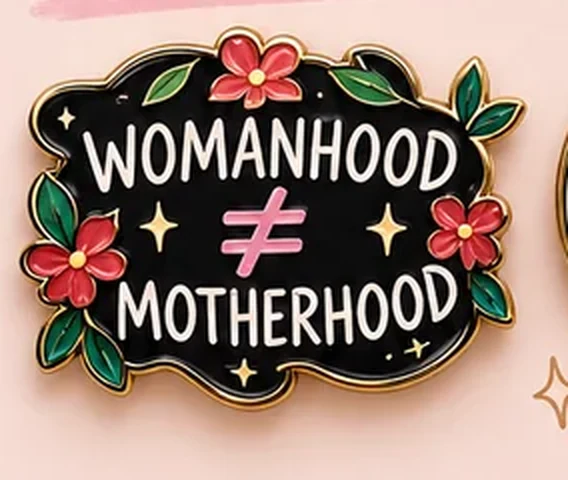
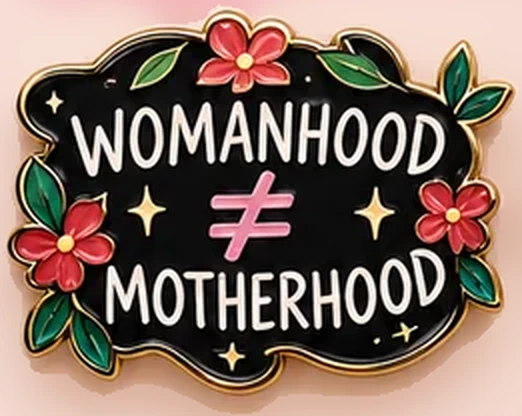
Fix Childfree filter scoping and re-cut the nine pin tiles from the approved sheet
- Scope the mood filter handler to the button group: '[data-mood]' also
  matched the nine .pin-card articles, so a click anywhere in a card body
  silently filtered the grid, opening a pin from "All nine" left the grid
  filtered behind the dialog, and the cards received invalid aria-pressed.
- Re-cut pins/pin-01..09.webp from assets/childfree-original.webp (the only
  source of the artwork) at the same 2.0x zoom, but boxed to each pin's own
  outline: the old boxes reached into the band-label rows and into neighbouring
  pins (pin-02 carried the cut-off row label, pin-04 showed the Motherhood
  pin's leaves and a swash). Pin pixels are kept byte-for-byte; only the sheet
  background surrounding each pin is rebuilt from the sheet's own background,
  which also clears the band swashes and loose doodles left in a tile corner.
- Update the nine width/height attributes and the two captions that described
  the old framing.

diff --git a/work/childfree/index.html b/work/childfree/index.html
@@ -87,8 +87,9 @@
 .pin-noscript{font-size:12px;color:#6a5b60;margin-top:16px}
 
 /* Pin artwork. Each card carries its own crop of the approved sheet, saved as a
-   small derivative image under pins/, so no neighbouring pin or sheet label ever
-   intrudes. The crop is shown whole and contained, never stretched or re-drawn. */
+   small derivative image under pins/, cut to the pin's own outline so no
+   neighbouring pin and no band label can appear in the frame. The crop is shown
+   whole and contained, never stretched or re-drawn. */
 .pin-art{width:100%;max-width:320px;margin:6px auto 0;aspect-ratio:1;background:#f7e5e8;
   border:1px solid var(--line);padding:16px;display:grid;place-items:center}
 .pin-art img{width:auto;height:auto;max-width:100%;max-height:100%;object-fit:contain}
@@ -223,7 +224,7 @@
 <article class="pin-card" data-mood="whimsical">
 <div class="card-index"><span>Pin 01</span><span>Whimsical</span></div>
 <div class="pin-art">
-<img src="pins/pin-01.webp" width="532" height="428" alt="Detail from the approved sheet: a ribbon banner pin reading Childfree. By Choice., framed by white daisies and green leaves on a blush ground with a gold outline." loading="lazy" decoding="async">
+<img src="pins/pin-01.webp" width="542" height="436" alt="Detail from the approved sheet: a ribbon banner pin reading Childfree. By Choice., framed by white daisies and green leaves on a blush ground with a gold outline." loading="lazy" decoding="async">
 </div>
 <h3>Childfree, By Choice</h3>
 <p class="pin-statement">Childfree by choice.</p>
@@ -239,7 +240,7 @@
 <article class="pin-card" data-mood="whimsical">
 <div class="card-index"><span>Pin 02</span><span>Whimsical</span></div>
 <div class="pin-art">
-<img src="pins/pin-02.webp" width="408" height="488" alt="Detail from the approved sheet: a black enamel plaque pin with a large pink bow, reading No Heirs. Just Earrings., with a dangling pair of heart earrings on a chain." loading="lazy" decoding="async">
+<img src="pins/pin-02.webp" width="434" height="466" alt="Detail from the approved sheet: a black enamel plaque pin with a large pink bow, reading No Heirs. Just Earrings., with a dangling pair of heart earrings on a chain." loading="lazy" decoding="async">
 </div>
 <h3>No Heirs, Just Earrings</h3>
 <p class="pin-statement">No heirs. Just earrings.</p>
@@ -255,7 +256,7 @@
 <article class="pin-card" data-mood="whimsical">
 <div class="card-index"><span>Pin 03</span><span>Whimsical</span></div>
 <div class="pin-art">
-<img src="pins/pin-03.webp" width="472" height="492" alt="Detail from the approved sheet: a lilac cloud pin with a crescent moon, stars and pearl clouds, reading Just Me. Enough." loading="lazy" decoding="async">
+<img src="pins/pin-03.webp" width="466" height="452" alt="Detail from the approved sheet: a lilac cloud pin with a crescent moon, stars and pearl clouds, reading Just Me. Enough." loading="lazy" decoding="async">
 </div>
 <h3>Just Me, Enough</h3>
 <p class="pin-statement">Just me. Enough.</p>
@@ -271,7 +272,7 @@
 <article class="pin-card" data-mood="chilled">
 <div class="card-index"><span>Pin 04</span><span>Chilled</span></div>
 <div class="pin-art">
-<img src="pins/pin-04.webp" width="524" height="520" alt="Detail from the approved sheet: a pink twin-bell alarm clock pin with daisies, the clock face replaced by a mute symbol, reading My Biological Clock Is On Silent." loading="lazy" decoding="async">
+<img src="pins/pin-04.webp" width="494" height="484" alt="Detail from the approved sheet: a pink twin-bell alarm clock pin with daisies, the clock face replaced by a mute symbol, reading My Biological Clock Is On Silent." loading="lazy" decoding="async">
 </div>
 <h3>My Biological Clock Is On Silent</h3>
 <p class="pin-statement">My biological clock is on silent.</p>
@@ -287,7 +288,7 @@
 <article class="pin-card" data-mood="chilled">
 <div class="card-index"><span>Pin 05</span><span>Chilled</span></div>
 <div class="pin-art">
-<img src="pins/pin-05.webp" width="496" height="488" alt="Detail from the approved sheet: an ivory and blush ribbon banner pin reading Motherhood Is Optional., framed by green leaves and daisies." loading="lazy" decoding="async">
+<img src="pins/pin-05.webp" width="496" height="450" alt="Detail from the approved sheet: an ivory and blush ribbon banner pin reading Motherhood Is Optional., framed by green leaves and daisies." loading="lazy" decoding="async">
 </div>
 <h3>Motherhood Is Optional</h3>
 <p class="pin-statement">Motherhood is optional.</p>
@@ -303,7 +304,7 @@
 <article class="pin-card" data-mood="chilled">
 <div class="card-index"><span>Pin 06</span><span>Chilled</span></div>
 <div class="pin-art">
-<img src="pins/pin-06.webp" width="488" height="508" alt="Detail from the approved sheet: a round gold-outlined pin reading Complete As I Am, with a sunrise over green hills, cloud shapes and daisies." loading="lazy" decoding="async">
+<img src="pins/pin-06.webp" width="472" height="484" alt="Detail from the approved sheet: a round gold-outlined pin reading Complete As I Am, with a sunrise over green hills, cloud shapes and daisies." loading="lazy" decoding="async">
 </div>
 <h3>Complete As I Am</h3>
 <p class="pin-statement">Complete as I am.</p>
@@ -319,7 +320,7 @@
 <article class="pin-card" data-mood="bold">
 <div class="card-index"><span>Pin 07</span><span>Bold</span></div>
 <div class="pin-art">
-<img src="pins/pin-07.webp" width="568" height="480" alt="Detail from the approved sheet: a black shield-shaped pin reading Womanhood is not Motherhood, with a large inequality sign and red hibiscus flowers." loading="lazy" decoding="async">
+<img src="pins/pin-07.webp" width="522" height="416" alt="Detail from the approved sheet: a black shield-shaped pin reading Womanhood is not Motherhood, with a large inequality sign and red hibiscus flowers." loading="lazy" decoding="async">
 </div>
 <h3>Womanhood is not Motherhood</h3>
 <p class="pin-statement">Womanhood ≠ Motherhood.</p>
@@ -335,7 +336,7 @@
 <article class="pin-card" data-mood="bold">
 <div class="card-index"><span>Pin 08</span><span>Bold</span></div>
 <div class="pin-art">
-<img src="pins/pin-08.webp" width="476" height="496" alt="Detail from the approved sheet: an ivory round pin shaped as an artist palette with colour wells, hearts and a paintbrush, reading My Life. My Design." loading="lazy" decoding="async">
+<img src="pins/pin-08.webp" width="456" height="432" alt="Detail from the approved sheet: an ivory round pin shaped as an artist palette with colour wells, hearts and a paintbrush, reading My Life. My Design." loading="lazy" decoding="async">
 </div>
 <h3>My Life, My Design</h3>
 <p class="pin-statement">My life. My design.</p>
@@ -351,7 +352,7 @@
 <article class="pin-card" data-mood="bold">
 <div class="card-index"><span>Pin 09</span><span>Bold</span></div>
 <div class="pin-art">
-<img src="pins/pin-09.webp" width="440" height="440" alt="Detail from the approved sheet: a deep red heart pin crossed by an ivory ribbon reading Childfree, Not Childless., with daisies on a gold outline." loading="lazy" decoding="async">
+<img src="pins/pin-09.webp" width="494" height="440" alt="Detail from the approved sheet: a deep red heart pin crossed by an ivory ribbon reading Childfree, Not Childless., with daisies on a gold outline." loading="lazy" decoding="async">
 </div>
 <h3>Childfree, Not Childless</h3>
 <p class="pin-statement">Childfree, not childless.</p>
@@ -419,7 +420,7 @@
 </div>
 <dl class="pin-spec" id="pin-detail-spec"></dl>
 <p class="pin-note" id="pin-detail-note"></p>
-<p class="mini">Detail cut from the approved concept sheet. The artwork itself is unchanged.</p>
+<p class="mini">Detail cut from the approved concept sheet: the crop follows the pin's own outline, and the sheet's background texture around it has been cleaned away. The pin artwork itself is unchanged.</p>
 </div>
 </div>
 </dialog>
@@ -429,7 +430,10 @@
   var grid = document.getElementById('pin-grid');
   var cards = Array.prototype.slice.call(grid.querySelectorAll('.pin-card'));
   var count = document.getElementById('pin-count');
-  var buttons = Array.prototype.slice.call(document.querySelectorAll('[data-mood]'));
+  // Only the filter buttons carry the mood; the cards carry data-mood for the
+  // filter to read, so the handler must be scoped to the button group or a
+  // click anywhere in a card would silently filter the grid.
+  var buttons = Array.prototype.slice.call(document.querySelectorAll('.pin-moods button[data-mood]'));
   var labels = {whimsical:'Whimsical', chilled:'Chilled', bold:'Bold'};
 
   function applyFilter(mood){
